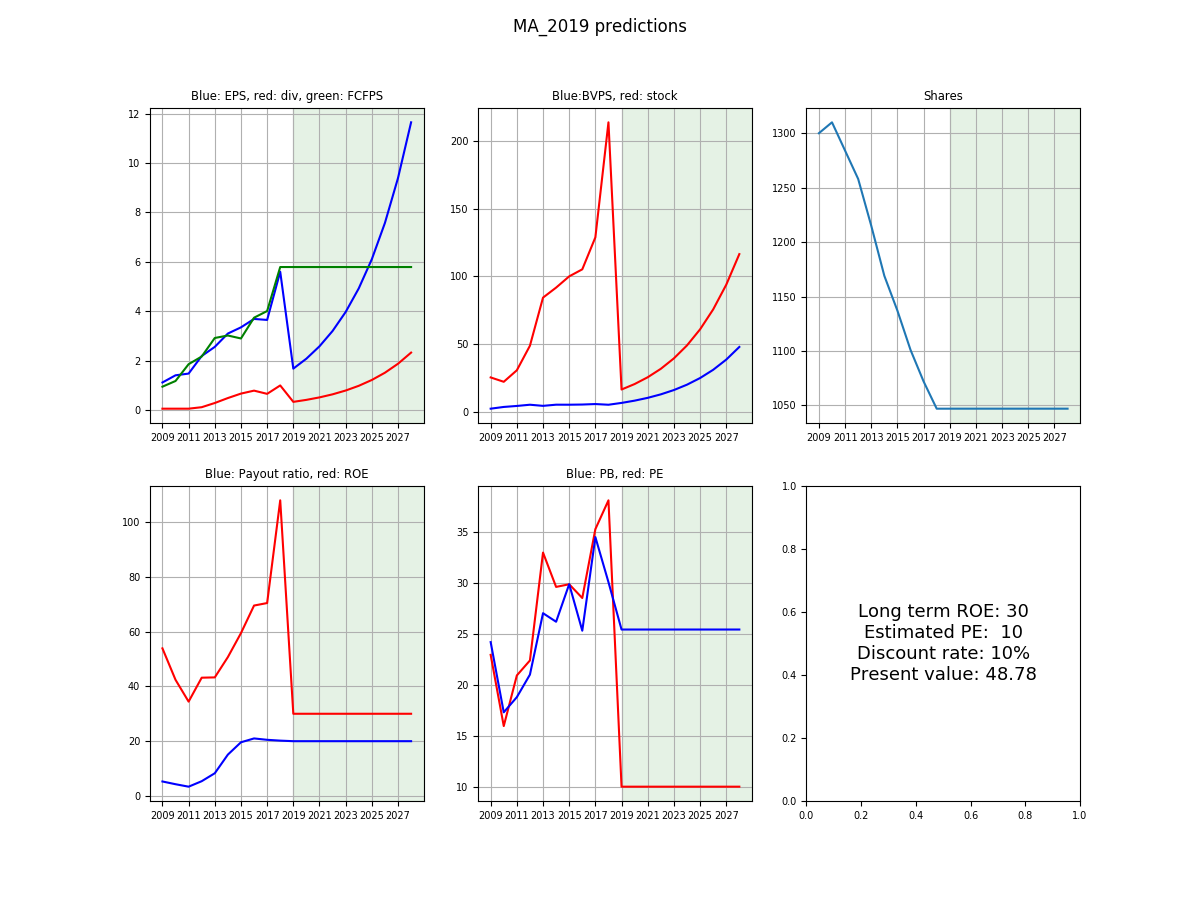
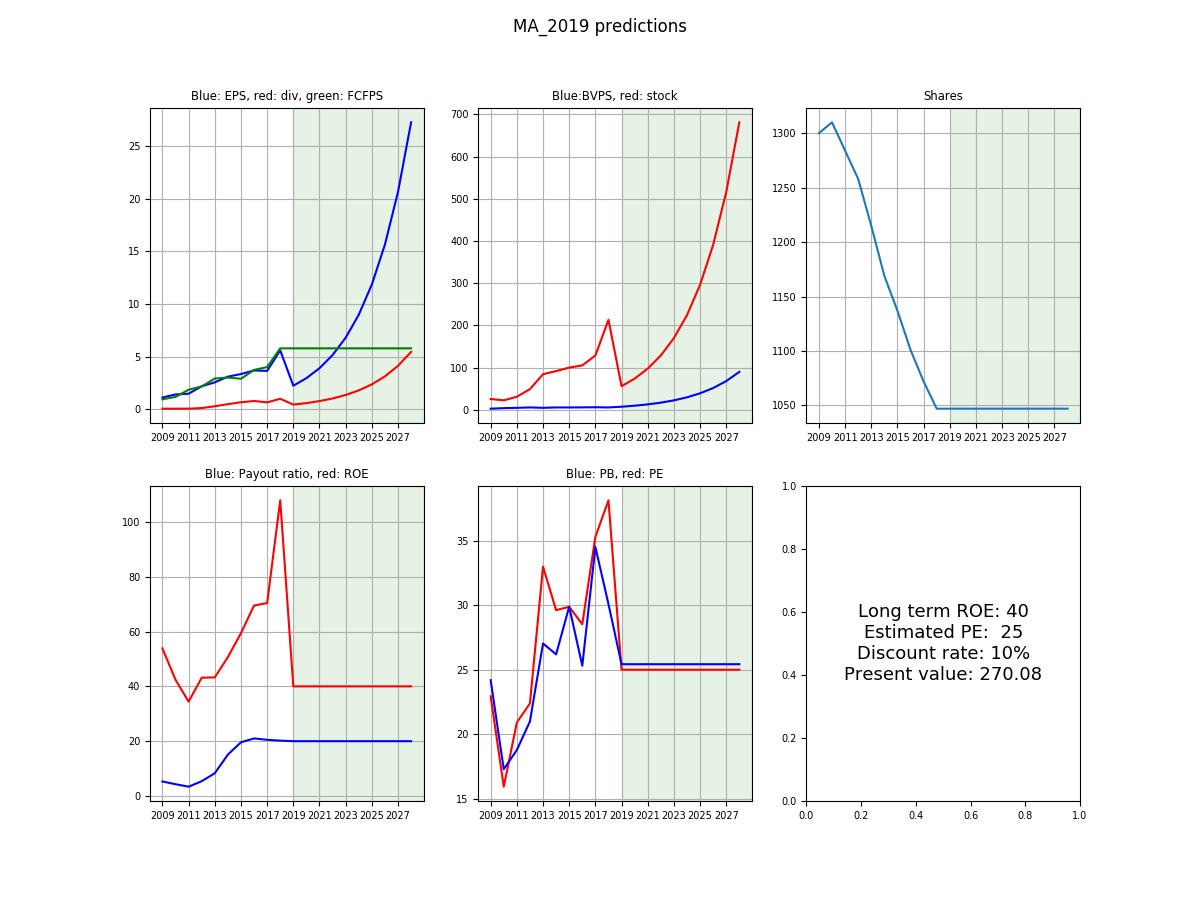
mastercard analysis

diff --git a/stock_screener.py b/stock_screener.py
@@ -8,14 +8,14 @@ import main_functions_wrapper as main
 '''
 =========Key in parameters here==========
 '''
-estimated_roe = 12
-estimated_pe = 8
-estimated_payout_ratio = 30
+estimated_roe = 40
+estimated_pe = 25
+estimated_payout_ratio = 20
 dcf_rate = 10
-div_taxrate = 0
-currentprice = 1.5
+div_taxrate = 30
+currentprice = 275
 years2project = 10
-sampletitle = 'YZJ_2019'
+sampletitle = 'MA_2019'
 filename = sampletitle+'_condensed.csv'
 directory = 'sample_data/'
 '''
